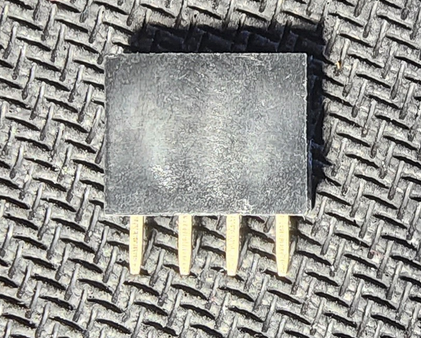
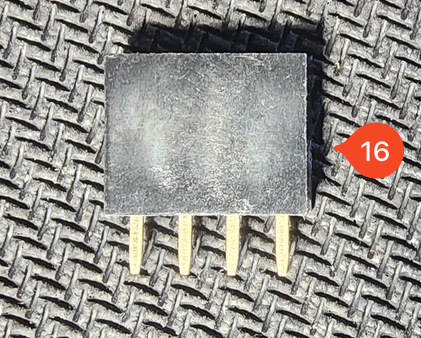
add oled socket to build parts

Changed region(s): [[0.772, 0.355, 0.9572, 0.5325]]

diff --git a/Build Guide.md b/Build Guide.md
@@ -21,8 +21,9 @@ You should have the following parts before you start the build:
 
 ![Parts Image 2](/blue-team-pad-docs/images/part-overview-2.png){: width="800" }
 
-## Parts List:
+![Parts Image 3](/images/oled-socket.png){: width="400" }
 
+## Parts List
 
 1. 20 MX Style Switches of Your Choice
 2. 1x Plate
@@ -39,6 +40,7 @@ You should have the following parts before you start the build:
 13. 20 Keycaps of Your Choice
 14. 1x Case USB Mid Piece
 15. 1x OLED Cover
+16. 1x OLED Socket (Optional)
 
 
 ## Tool Overview
